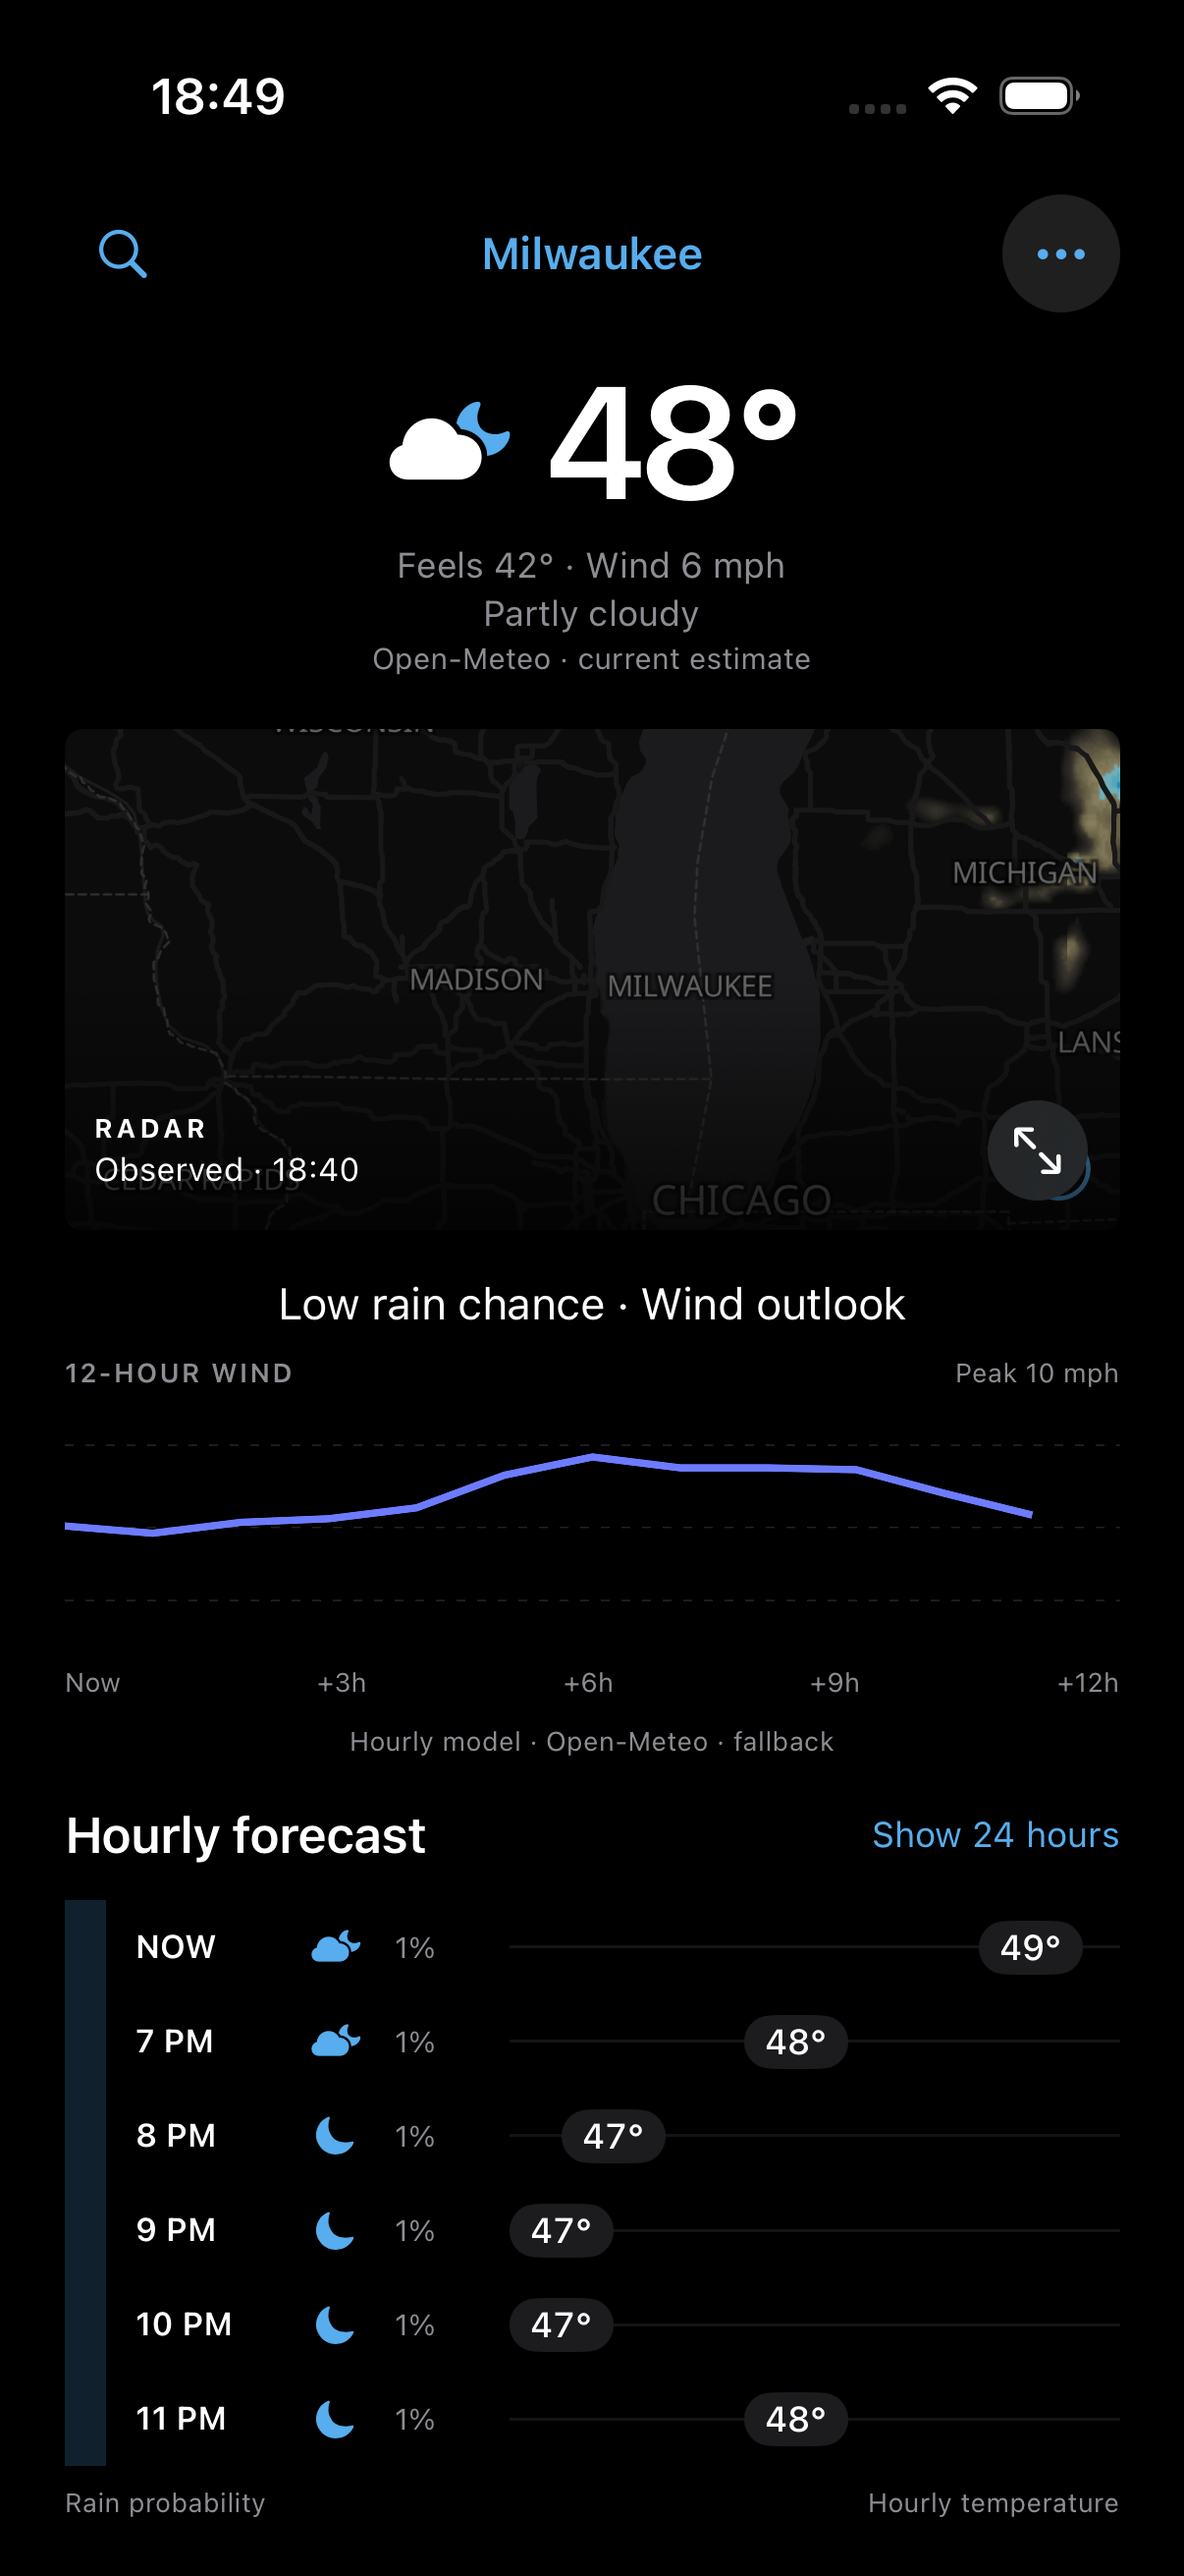
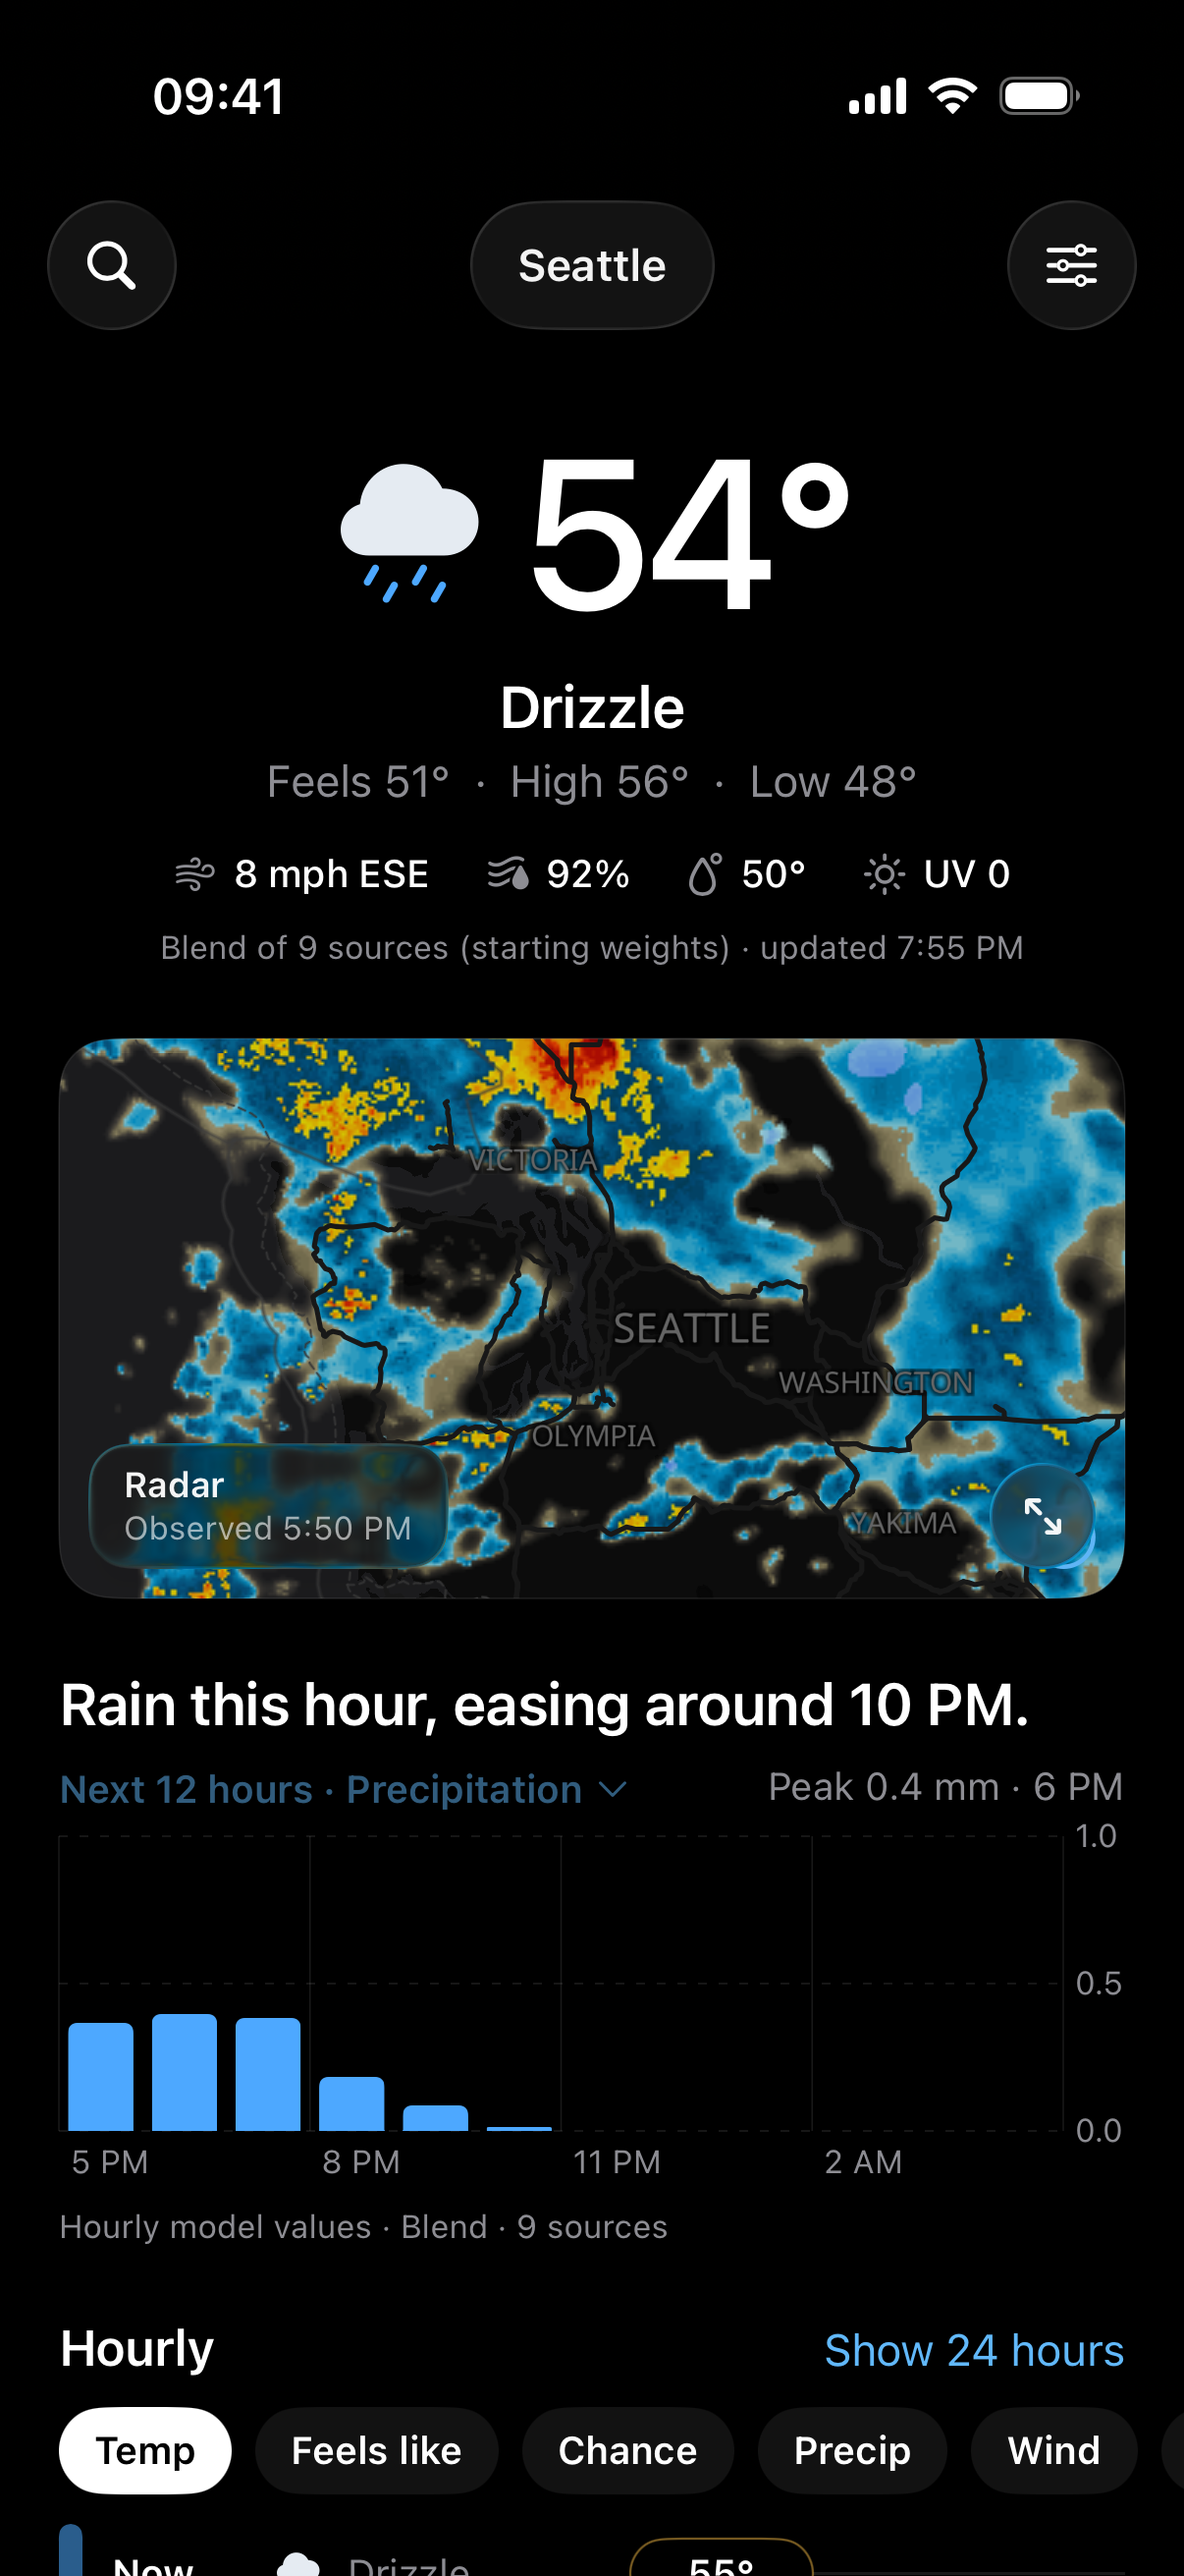
Show KlierSky 0.4.0 simulator captures

diff --git a/README.md b/README.md
@@ -24,15 +24,15 @@ The design takes inspiration from what made Dark Sky easy to read, using origina
 ## A look inside
 
 <table>
-<tr><th>Clear in daylight</th><th>Comfortable after dark</th><th>The details behind the day</th></tr>
+<tr><th>Clear in daylight</th><th>Comfortable after dark</th><th>From radar to futurecast</th></tr>
 <tr>
-<td width="33%"><img src="Docs/Images/forecast-light.png" alt="KlierSky light appearance with current conditions, radar, wind outlook and hourly temperatures" width="300"></td>
+<td width="33%"><img src="Docs/Images/forecast-light.png" alt="KlierSky light appearance with current conditions, radar, precipitation outlook and hourly temperatures" width="300"></td>
 <td width="33%"><img src="Docs/Images/forecast-dark.png" alt="KlierSky dark appearance with a compact forecast layout" width="300"></td>
-<td width="33%"><img src="Docs/Images/daily-detail.png" alt="Daily forecast detail showing precipitation, wind, UV and sunrise and sunset" width="300"></td>
+<td width="33%"><img src="Docs/Images/radar-timeline.png" alt="Combined map timeline showing observed radar, the boundary to model futurecast, and a precipitation legend" width="300"></td>
 </tr>
 </table>
 
-*Actual simulator captures from the development app, November 9, 2026. New captures are queued for the next Mac session; they cannot be taken from a cloud session, and mockups are never substituted. These screenshots use Open-Meteo; sources and timestamps remain visible. Weather values are snapshots, not current conditions. No generated app mockups.*
+*Actual iPhone simulator captures from KlierSky 0.4.0, November 10, 2026. Weather values are snapshots. Forecast sources and map timestamps are visible in the app.*
 
 ## In development: many sources, one forecast
 
@@ -40,7 +40,7 @@ The design takes inspiration from what made Dark Sky easy to read, using origina
 
 The next version averages many weather services instead of trusting one: Foreca when connected, Open-Meteo, six global weather models, MET Norway and, in the US, the National Weather Service. More reliable sources count for more, and the app shows which took part and with what weight. Alongside it come a past-to-future map timeline, hourly and daily widgets, and widgets that keep updating without reopening the app.
 
-This is **not in the code on this page yet**. It lives on the [`development/cloud-continuation`](https://github.com/gklier/KlierSky/tree/development/cloud-continuation) branch ([pull request](https://github.com/gklier/KlierSky/pull/1)) and has been tested against recorded and live responses, but not yet built into an app. It will move here once it builds and runs on a Mac. The weights start as a fixed ranking, not a measurement, and no accuracy gain is claimed.
+This is **not in the code on this page yet**. It lives on the [`development/cloud-continuation`](https://github.com/gklier/KlierSky/tree/development/cloud-continuation) branch ([pull request](https://github.com/gklier/KlierSky/pull/1)) and has been tested against recorded and live responses, and the 0.4.0 development build has run in the iPhone simulator. The weights start as a fixed ranking, not a measurement, and no accuracy gain is claimed.
 
 ## Made for everyday weather
 
